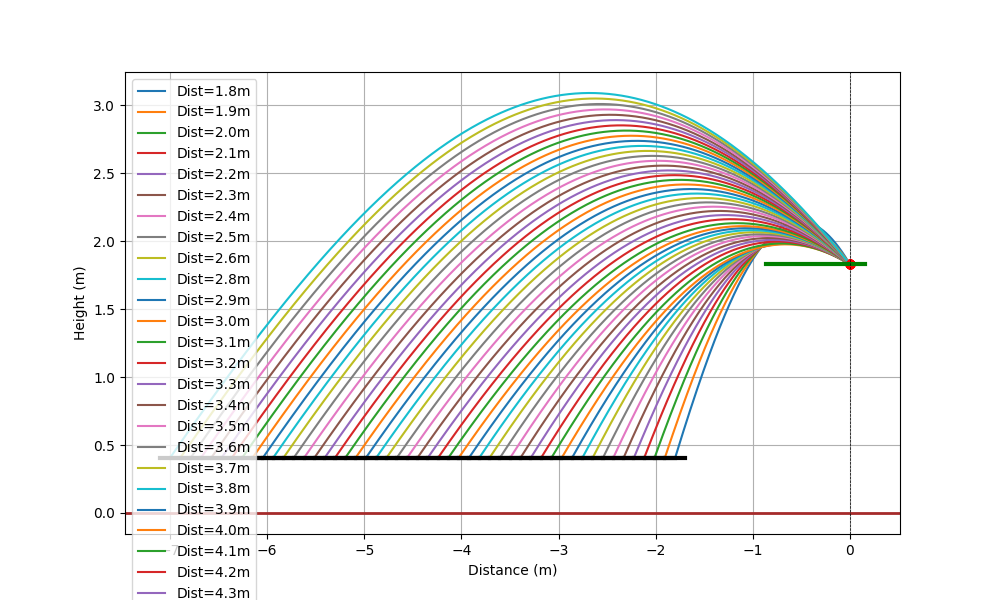
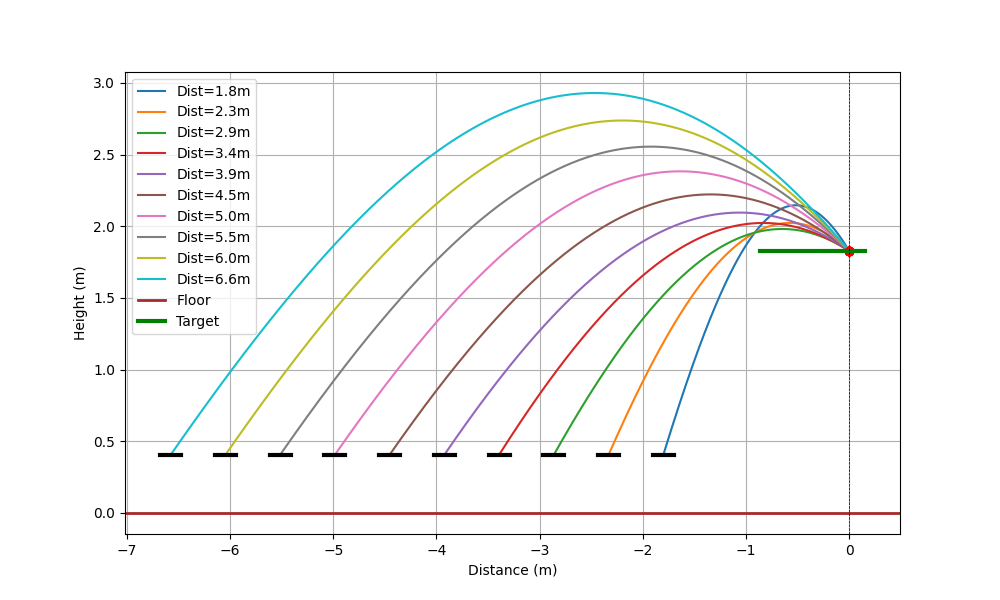
Adjust simulator diagram a bit

diff --git a/misc/shotSim/shotSimulator.py b/misc/shotSim/shotSimulator.py
@@ -170,7 +170,7 @@ plt.figure(figsize=(10, 6))
 first_vel_guess = 6
 last_vel = first_vel_guess
 
-for d in distances:
+for i, d in enumerate(distances):
     # Initial guess
     res = minimize(
         cost_function, 
@@ -205,13 +205,14 @@ for d in distances:
     valid_idx = xs <= d
     x_shifted = xs[valid_idx] - d
 
-    plt.plot(x_shifted, ys[valid_idx], label=f'Dist={d:.1f}m')
-    plt.plot(0, hub_entrance_height_m, 'ro') # Target point
-    
-    # Turret (8 inches wide) at the starting point
-    turret_width_m = 8 * 0.0254
-    # TODO: color by something meaningful lol
-    plt.plot([-d - turret_width_m/2, -d + turret_width_m/2], [shooter_height_m, shooter_height_m], 'k-', lw=3)
+    if i % 5 == 0:
+        plt.plot(x_shifted, ys[valid_idx], label=f'Dist={d:.1f}m')
+        plt.plot(0, hub_entrance_height_m, 'ro') # Target point
+        
+        # Turret (8 inches wide) at the starting point
+        turret_width_m = 8 * 0.0254
+        # TODO: color by something meaningful lol
+        plt.plot([-d - turret_width_m/2, -d + turret_width_m/2], [shooter_height_m, shooter_height_m], 'k-', lw=3)
 
 plt.axhline(0, color='brown', linewidth=2, linestyle='solid', label='Floor')
 

diff --git a/src/main/java/frc/robot/subsystems/turret/ShotCalculator.java b/src/main/java/frc/robot/subsystems/turret/ShotCalculator.java
@@ -119,13 +119,6 @@ public class ShotCalculator {
     static {
         // Hub shots
 
-        // 1.486m: 2219.9 rpm / 29.9 deg / 1.10s
-        // 2.28m:  2294.4 rpm / 37.4 deg / 1.04s
-        // 2.64m:  2327.6 rpm / 40.7 deg / 0.93s
-        // 3.41m:  2679.6 rpm / 40.9 deg / 1.17s
-        // 4.33m:  2924.0 rpm / 41.9 deg / 1.39s
-        // 5.35m:  3476.5 rpm / 41.9 deg / 1.45s
-
         hubShots.loadFromCsv("hub_shots.csv");
 
         // Passing shots
